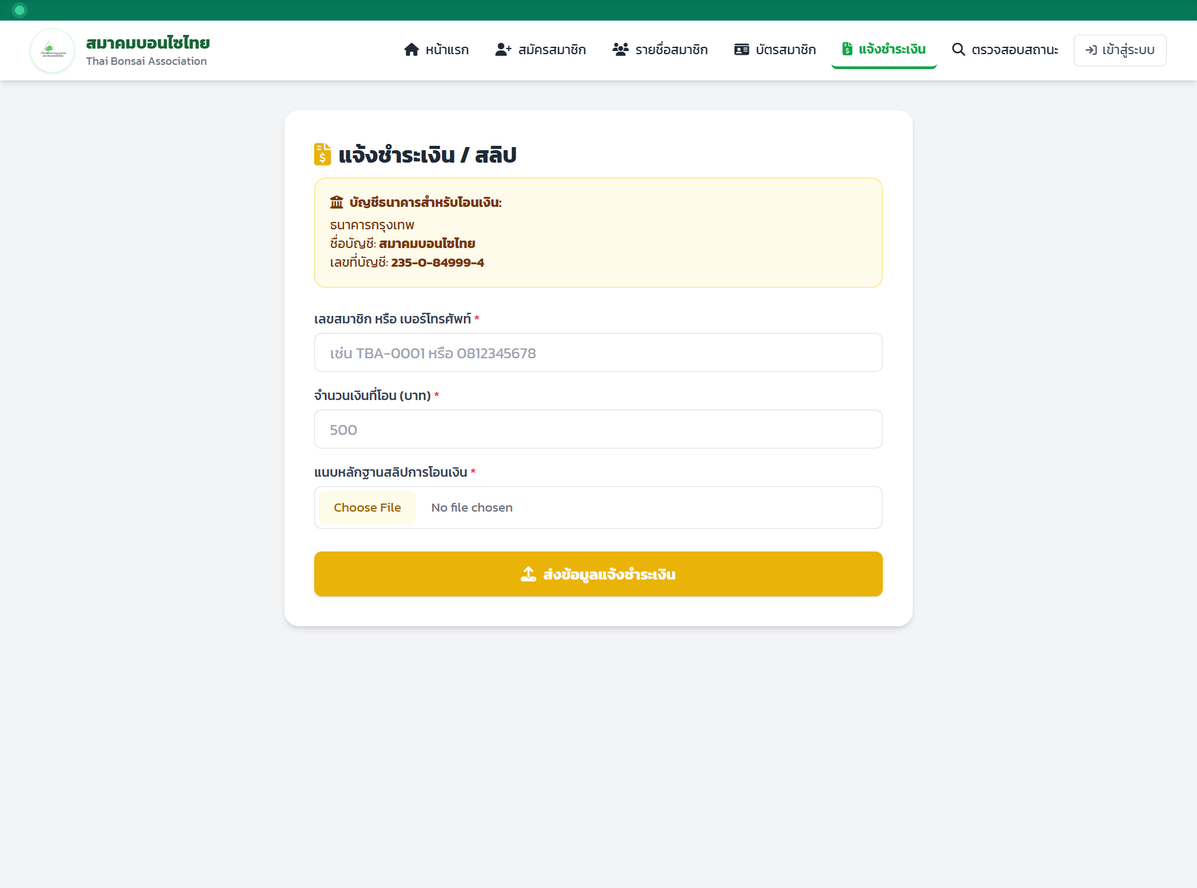
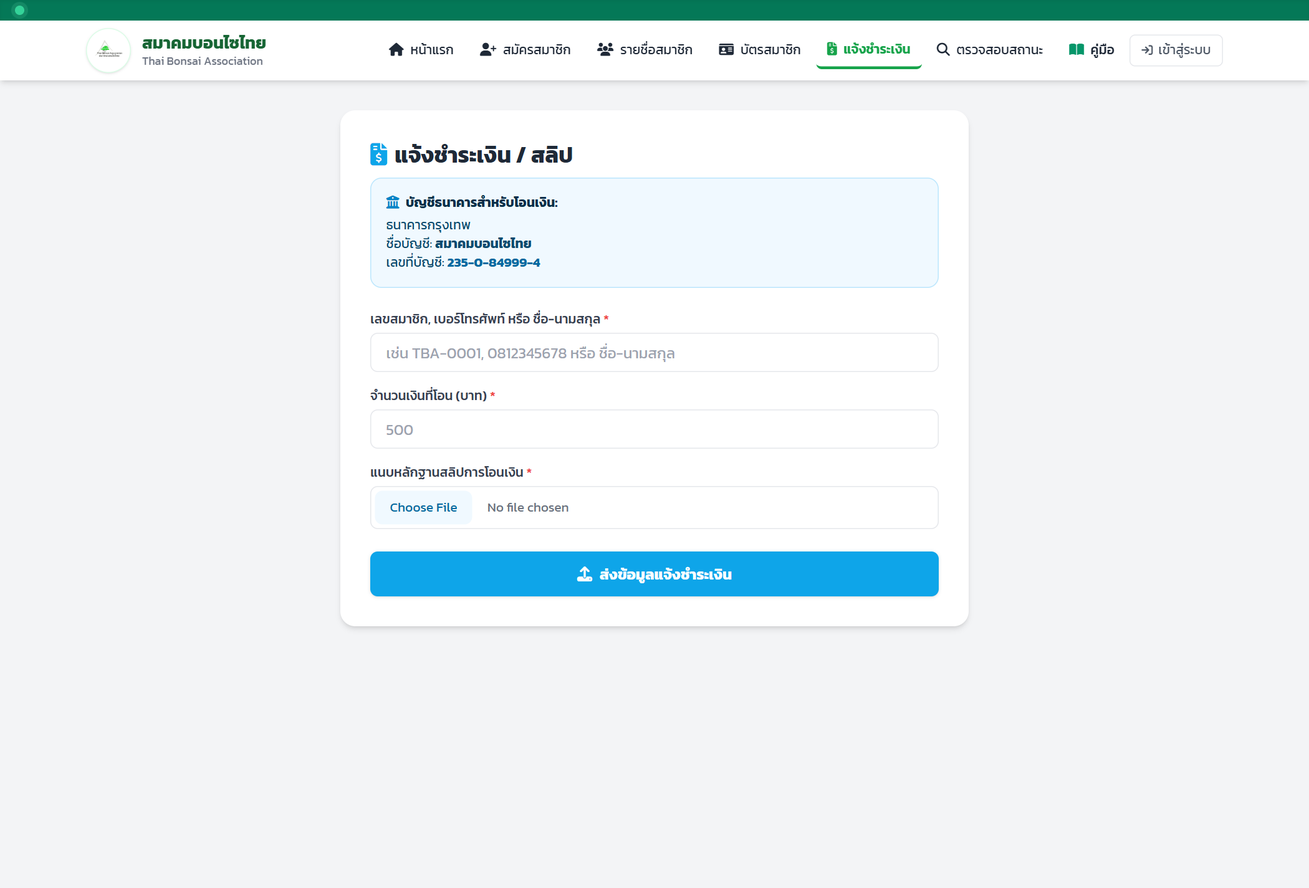
docs: update manual and website with latest UI changes, sky blue payment theme, expanded status view, and new admin screenshots

diff --git a/index.html b/index.html
@@ -1602,19 +1602,19 @@
                     </tr>
                     <tr class="hover:bg-gray-50">
                       <td class="py-2 px-3 font-semibold text-gray-500">แถว 1</td>
-                      <td class="py-2 px-3 font-bold text-amber-800">2. แจ้งชำระเงิน</td>
-                      <td class="py-2 px-3 text-amber-600 font-medium">ทองอำพันสว่าง</td>
-                      <td class="py-2 px-3">แนบหลักฐานสลิปโอนเงินค่าบำรุงสมาชิก</td>
+                      <td class="py-2 px-3 font-bold text-sky-800">2. แจ้งชำระเงิน</td>
+                      <td class="py-2 px-3 text-sky-600 font-medium">ฟ้าครามสดใส (Sky Blue)</td>
+                      <td class="py-2 px-3">แนบหลักฐานสลิปโอนเงิน ค้นหาด้วยชื่อ/เบอร์/รหัสสมาชิก</td>
                     </tr>
                     <tr class="hover:bg-gray-50">
                       <td class="py-2 px-3 font-semibold text-gray-500">แถว 1</td>
                       <td class="py-2 px-3 font-bold text-blue-800">3. ตรวจสอบสถานะ</td>
                       <td class="py-2 px-3 text-blue-600 font-medium">ฟ้าครามสดใส</td>
-                      <td class="py-2 px-3">ตรวจสอบสถานะการอนุมัติและวันหมดอายุบัตร</td>
+                      <td class="py-2 px-3">ตรวจสอบสถานะการอนุมัติและวันหมดอายุ ค้นหาจากชื่อได้ทันที</td>
                     </tr>
                     <tr class="hover:bg-gray-50">
                       <td class="py-2 px-3 font-semibold text-gray-500">แถว 2</td>
-                      <td class="py-2 px-3 font-bold text-purple-800">4. บัตรสมาชิก</td>
+                      <td class="py-2 px-3 font-bold text-purple-800">4. ดูบัตรสมาชิกทุกคน</td>
                       <td class="py-2 px-3 text-purple-600 font-medium">ม่วงไวโอเล็ต</td>
                       <td class="py-2 px-3">เปิดดูแกลเลอรีบัตรประจำตัวดิจิทัลของทุกคนในระบบ</td>
                     </tr>
@@ -1681,28 +1681,28 @@
             <!-- หมวดที่ 3: ระบบแจ้งชำระเงิน (Payment) -->
             <section id="manual-sec-3" class="pt-6 border-t border-gray-100 scroll-mt-20">
               <div class="flex items-center gap-2.5 pb-2 border-b border-gray-200 mb-4">
-                <span class="w-8 h-8 rounded-lg bg-emerald-100 text-emerald-800 font-bold flex items-center justify-center text-sm">3</span>
+                <span class="w-8 h-8 rounded-lg bg-sky-100 text-sky-800 font-bold flex items-center justify-center text-sm">3</span>
                 <h3 class="text-xl sm:text-2xl font-bold text-gray-900">ระบบแจ้งชำระเงิน (Payment Submission)</h3>
               </div>
               <p class="text-gray-600 mb-4">
-                ช่องทางสำหรับสมาชิกในการแนบสลิปหลักฐานการโอนเงินค่าบำรุงสมาชิกเข้าสู่ระบบ:
+                ปรับปรุงรูปลักษณ์ใหม่ด้วยโทนสีฟ้า (Sky Blue) สบายตา ช่องทางสำหรับสมาชิกในการแนบสลิปหลักฐานการโอนเงินค่าบำรุงสมาชิกเข้าสู่ระบบ:
               </p>
 
               <!-- ภาพประกอบหน้า 3 -->
               <div class="my-5 rounded-2xl overflow-hidden border border-gray-200 shadow-md">
-                <img src="manual_screenshots/03_payment.png" alt="หน้าแจ้งชำระเงิน สมาคมบอนไซไทย" class="w-full h-auto object-cover" />
+                <img src="manual_screenshots/03_payment.png" alt="หน้าแจ้งชำระเงิน สมาคมบอนไซไทย โทนสีฟ้า" class="w-full h-auto object-cover" />
                 <div class="bg-gray-50 px-4 py-2 text-xs text-gray-500 text-center font-medium border-t border-gray-200">
-                  รูปภาพที่ 3: หน้าค้นหาข้อมูลสมาชิกและแนบภาพถ่ายสลิปโอนเงิน
+                  รูปภาพที่ 3: หน้าแจ้งชำระเงินโทนสีฟ้า รองรับการระบุด้วยรหัสสมาชิก เบอร์โทรศัพท์ หรือชื่อ-นามสกุล
                 </div>
               </div>
 
               <div class="space-y-1.5 text-sm text-gray-700">
                 <p><strong>ขั้นตอนการใช้งาน:</strong></p>
                 <ul class="list-disc list-inside space-y-1 pl-2">
-                  <li>กรอกรหัสสมาชิก (เช่น TBA-0001) หรือเบอร์โทรศัพท์ที่ลงทะเบียนไว้ แล้วกด <strong>"ตรวจสอบข้อมูล"</strong></li>
-                  <li>ระบบจะดึงชื่อ-นามสกุลและสถานะปัจจุบันมาแสดง พร้อมเลขที่บัญชีธนาคารของสมาคมบอนไซไทย</li>
-                  <li>อัปโหลดไฟล์ภาพสลิปโอนเงิน (รองรับไฟล์รูปภาพทุกรูปแบบ)</li>
-                  <li>กดปุ่ม <strong>"ยืนยันการแจ้งชำระเงิน"</strong> ข้อมูลจะถูกส่งถึงเจ้าหน้าที่ทันที</li>
+                  <li>กรอก <strong>รหัสสมาชิก (เช่น TBA-0001)</strong>, <strong>เบอร์โทรศัพท์</strong> หรือ <strong>ชื่อ-นามสกุล</strong> ในช่องระบุตัวตน</li>
+                  <li>กรอกจำนวนเงินที่โอน และตรวจสอบเลขบัญชีธนาคารกรุงเทพของสมาคมบอนไซไทย (235-0-84999-4)</li>
+                  <li>อัปโหลดไฟล์ภาพสลิปหลักฐานการโอนเงิน</li>
+                  <li>กดปุ่ม <strong>"ส่งข้อมูลแจ้งชำระเงิน"</strong> ข้อมูลและไฟล์สลิปจะถูกส่งเข้า Google Drive ให้เจ้าหน้าที่ตรวจสอบทันที</li>
                 </ul>
               </div>
             </section>
@@ -1714,21 +1714,23 @@
                 <h3 class="text-xl sm:text-2xl font-bold text-gray-900">ระบบตรวจสอบสถานะสมาชิก (Status Tracking)</h3>
               </div>
               <p class="text-gray-600 mb-4">
-                ช่วยให้สมาชิกสามารถติดตามสถานะการสมัคร การอนุมัติ และวันหมดอายุของบัตรได้ด้วยตนเองตลอด 24 ชั่วโมง
+                ปรับปรุงหน้าจอขยายกว้างขวางเต็มตา (กว้างขึ้นระดับ max-w-4xl) ช่วยให้สมาชิกสามารถติดตามสถานะการสมัคร การอนุมัติ และวันหมดอายุของบัตรได้ด้วยตนเองตลอด 24 ชั่วโมง
               </p>
 
               <!-- ภาพประกอบหน้า 4 -->
               <div class="my-5 rounded-2xl overflow-hidden border border-gray-200 shadow-md">
                 <img src="manual_screenshots/04_status.png" alt="หน้าตรวจสอบสถานะสมาชิก" class="w-full h-auto object-cover" />
                 <div class="bg-gray-50 px-4 py-2 text-xs text-gray-500 text-center font-medium border-t border-gray-200">
-                  รูปภาพที่ 4: หน้าตรวจสอบสถานะสมาชิกผ่านเบอร์โทรศัพท์หรือรหัสสมาชิก
+                  รูปภาพที่ 4: หน้าตรวจสอบสถานะแบบกว้างขวาง ค้นหาด้วยชื่อ-นามสกุล เบอร์โทรศัพท์ หรือรหัสสมาชิก
                 </div>
               </div>
 
               <div class="space-y-1.5 text-sm text-gray-700">
-                <p><strong>ผลลัพธ์การตรวจสอบ:</strong></p>
+                <p><strong>การค้นหาและผลลัพธ์:</strong></p>
                 <ul class="list-disc list-inside space-y-1 pl-2">
-                  <li><span class="inline-block w-2.5 h-2.5 rounded-full bg-emerald-500 mr-1.5"></span><strong>สถานะอนุมัติแล้ว:</strong> สมาชิกสามารถคลิกเพื่อเปิดดูบัตรประจำตัวดิจิทัลได้ทันที</li>
+                  <li><strong>ค้นหาได้สะดวก:</strong> พิมพ์ค้นหาได้ทั้งชื่อ, นามสกุล, เบอร์โทรศัพท์ หรือรหัสสมาชิก</li>
+                  <li><strong>การ์ดแสดงผลข้อมูลสมบูรณ์:</strong> แสดงรูปถ่ายหน้าตรงที่ผ่านการครอบ AI, รหัสสมาชิก, ข้อมูลติดต่อ, วันหมดอายุ</li>
+                  <li><span class="inline-block w-2.5 h-2.5 rounded-full bg-emerald-500 mr-1.5"></span><strong>สถานะใช้งานอยู่:</strong> มีปุ่มลัด <strong>"ดูบัตรประจำตัว"</strong> คลิกเปิดบัตรดิจิทัลฉบับเต็มได้ทันที</li>
                   <li><span class="inline-block w-2.5 h-2.5 rounded-full bg-amber-500 mr-1.5"></span><strong>สถานะรอตรวจสอบชำระเงิน:</strong> มีปุ่มคลิกข้ามไปหน้าแจ้งชำระเงินได้สะดวกรวดเร็ว</li>
                 </ul>
               </div>
@@ -1793,24 +1795,34 @@
             <!-- หมวดที่ 7: ระบบฐานข้อมูลและเมนูเจ้าหน้าที่ (Admin & Database Portal) -->
             <section id="manual-sec-7" class="pt-6 border-t border-gray-100 scroll-mt-20">
               <div class="flex items-center gap-2.5 pb-2 border-b border-gray-200 mb-4">
-                <span class="w-8 h-8 rounded-lg bg-emerald-100 text-emerald-800 font-bold flex items-center justify-center text-sm">7</span>
+                <span class="w-8 h-8 rounded-lg bg-emerald-900 text-emerald-100 font-bold flex items-center justify-center text-sm">7</span>
                 <h3 class="text-xl sm:text-2xl font-bold text-gray-900">ระบบฐานข้อมูลและเมนูเจ้าหน้าที่ (Admin & Database Portal)</h3>
               </div>
               <p class="text-gray-600 mb-4">
-                ศูนย์กลางการจัดการข้อมูลสมาชิกทั้งหมดสำหรับคณะกรรมการและเจ้าหน้าที่สมาคมบอนไซไทย:
+                ศูนย์กลางการจัดการข้อมูลสมาชิกทั้งหมดสำหรับคณะกรรมการและเจ้าหน้าที่สมาคมบอนไซไทย ปรับโฉมโทนสีเขียวเข้มสง่างาม (Emerald Forest) พร้อมหัวตารางสีเขียวอ่อนอ่านง่าย:
               </p>
 
-              <!-- ภาพประกอบหน้า 7 -->
+              <!-- ภาพประกอบหน้า 7 - ตารางสมาชิก -->
               <div class="my-5 rounded-2xl overflow-hidden border border-gray-200 shadow-md">
-                <img src="manual_screenshots/07_members.png" alt="หน้าตารางรายชื่อสมาชิกสำหรับเจ้าหน้าที่" class="w-full h-auto object-cover" />
+                <img src="manual_screenshots/07_members.png" alt="หน้าตารางรายชื่อสมาชิกสำหรับเจ้าหน้าที่ พร้อมแถบค้นหา" class="w-full h-auto object-cover" />
                 <div class="bg-gray-50 px-4 py-2 text-xs text-gray-500 text-center font-medium border-t border-gray-200">
-                  รูปภาพที่ 7: ตารางบริหารจัดการข้อมูลสมาชิก ค้นหา อนุมัติ และตรวจสอบสลิป
+                  รูปภาพที่ 7: หน้าทำเนียบสมาชิกพร้อมแถบค้นหาข้อมูลอัจฉริยะแบบเรียลไทม์
+                </div>
+              </div>
+
+              <!-- ภาพประกอบหน้า 7 - แดชบอร์ดแอดมินโทนเขียวเข้ม -->
+              <div class="my-5 rounded-2xl overflow-hidden border border-gray-200 shadow-md">
+                <img src="manual_screenshots/08_admin.png" alt="หน้าแดชบอร์ดจัดการระบบของแอดมิน โทนสีเขียวเข้มและหัวตารางสีเขียวอ่อน" class="w-full h-auto object-cover" />
+                <div class="bg-gray-50 px-4 py-2 text-xs text-gray-500 text-center font-medium border-t border-gray-200">
+                  รูปภาพที่ 8: หน้าแดชบอร์ดแอดมินโทนสีเขียวเข้ม (Emerald-900) พร้อมแถบค้นหาและหัวตารางสีเขียวอ่อนสบายตา
                 </div>
               </div>
 
               <div class="space-y-1.5 text-sm text-gray-700">
                 <p><strong>สิทธิ์และความสามารถของเจ้าหน้าที่:</strong></p>
                 <ul class="list-disc list-inside space-y-1 pl-2">
+                  <li><strong>แถบค้นหาอัจฉริยะ:</strong> ค้นหาตามชื่อ-นามสกุล, รหัสสมาชิก หรือเบอร์โทรศัพท์ได้อย่างรวดเร็ว</li>
+                  <li><strong>โทนสีและหัวตารางสบายตา:</strong> หัวตารางสีเขียวอ่อนอ่านง่าย สบายตาในการตรวจสอบข้อมูลสมาชิกจำนวนมาก</li>
                   <li><strong>อนุมัติสมาชิก:</strong> คลิกเปลี่ยนสถานะสมาชิกจาก "รออนุมัติ" เป็น "ใช้งานอยู่" ได้ทันที</li>
                   <li><strong>ตรวจสอบสลิปโอนเงิน:</strong> คลิกดูรูปถ่ายสลิปที่เก็บไว้อย่างปลอดภัยบน Google Drive</li>
                   <li><strong>ส่งออกข้อมูล (Export CSV):</strong> ดาวน์โหลดไฟล์รายชื่อสมาชิกไปใช้งานต่อใน Excel ได้</li>

diff --git a/MANUAL.md b/MANUAL.md
@@ -23,16 +23,17 @@
 หน้าแรกของระบบได้รับการออกแบบอย่างสง่างาม แบ่งพื้นที่ออกเป็นสัดส่วน 2:1 ที่ลงตัว:
 - **ฝั่งซ้าย (2 ใน 3 ส่วน)**: แถบต้อนรับทางการ คำแนะนำการใช้งาน และ **ปุ่มเมนูด่วน 5 รายการ (จัดเรียง 2 แถว)** โทนสีสดใสสะดุดตาพร้อมลายเส้นไม้ธรรมชาติของการ์ดสมาชิก
 - **ฝั่งขวา (1 ใน 3 ส่วน)**: ตราสัญลักษณ์โลโก้สมาคมบอนไซไทยทรงกลมแบบ **3 มิติ (3D Beveled Medallion)** พร้อมภาพบุคคลและต้นบอนไซที่วางชิดขอบล่างสุดอย่างภูมิฐาน
+- **แถบเมนูด้านบน (Navbar)**: มีปุ่มลัด **"คู่มือ"** พร้อมไอคอนหนังสือสีเขียวมรกต เพื่อเปิดคู่มือฉบับเต็มและดาวน์โหลด PDF ได้ทันที
 
-![หน้าหลัก ระบบทะเบียนสมาชิก สมาคมบอนไซไทย](C:/Users/AA-IP-NW/.gemini/antigravity-ide/brain/6e579d8a-110e-4319-a297-9fd0524705d2/manual_screenshots/01_home.png)
+![หน้าหลัก ระบบทะเบียนสมาชิก สมาคมบอนไซไทย](manual_screenshots/01_home.png)
 
 ### รายละเอียดปุ่มเมนูด่วน 5 รายการ:
 | แถว | รายการ | โทนสี | หน้าที่การทำงาน |
 | :--- | :--- | :--- | :--- |
 | **แถวที่ 1** | **สมัครสมาชิกใหม่** | เขียวมรกต (`Emerald`) | เปิดฟอร์มลงทะเบียนสมาชิกใหม่ พร้อมระบบตรวจจับใบหน้า AI |
-| | **แจ้งชำระเงิน** | ทองอำพัน (`Amber Gold`) | แนบหลักฐานสลิปโอนเงินค่าบำรุงสมาชิก |
-| | **ตรวจสอบสถานะ** | ฟ้าคราม (`Sky Azure`) | ตรวจสอบผลการอนุมัติและวันหมดอายุของบัตร |
-| **แถวที่ 2** | **บัตรสมาชิก** | ม่วงไวโอเล็ต (`Royal Violet`) | เปิดแกลเลอรีดูบัตรประจำตัวดิจิทัลของทุกคนในระบบ |
+| | **แจ้งชำระเงิน** | ฟ้าครามสดใส (`Sky Blue`) | แนบหลักฐานสลิปโอนเงินค่าบำรุงสมาชิก พร้อมค้นหาด้วยชื่อ/เบอร์/รหัส |
+| | **ตรวจสอบสถานะ** | ฟ้าคราม (`Sky Azure`) | ตรวจสอบผลการอนุมัติและวันหมดอายุของบัตร ค้นหาจากชื่อได้ทันที |
+| **แถวที่ 2** | **ดูบัตรสมาชิกทุกคน** | ม่วงไวโอเล็ต (`Royal Violet`) | เปิดแกลเลอรีดูบัตรประจำตัวดิจิทัลของทุกคนในระบบ |
 | | **สมาชิกทั้งหมด** | แดงทับทิม (`Ruby Rose`) | แสดงยอดรวมสมาชิกแบบเรียลไทม์ และคลิกเพื่อเปิดทำเนียบสมาชิก |
 
 ---
@@ -41,7 +42,7 @@
 
 แบบฟอร์มลงทะเบียนออนไลน์เพื่อจัดทำทะเบียนและออกบัตรสมาชิกประจำตัวดิจิทัล
 
-![หน้าสมัครสมาชิกใหม่ พร้อมระบบครอบใบหน้า AI และ PDPA](C:/Users/AA-IP-NW/.gemini/antigravity-ide/brain/6e579d8a-110e-4319-a297-9fd0524705d2/manual_screenshots/02_register.png)
+![หน้าสมัครสมาชิกใหม่ พร้อมระบบครอบใบหน้า AI และ PDPA](manual_screenshots/02_register.png)
 
 ### ขั้นตอนการสมัครสมาชิก:
 1. **กรอกข้อมูลส่วนบุคคล**:
@@ -65,32 +66,41 @@
 
 ## 3. ระบบแจ้งชำระเงิน (Payment Submission)
 
-สำหรับสมาชิกที่ต้องการส่งหลักฐานการโอนเงินค่าสมัครหรือต่ออายุสมาชิกสมาคม
+ปรับโฉมใหม่ด้วยโทนสีฟ้า (`Sky Blue`) สบายตา สำหรับสมาชิกที่ต้องการส่งหลักฐานการโอนเงินค่าสมัครหรือต่ออายุสมาชิกสมาคม
 
-![หน้าแจ้งชำระเงิน](C:/Users/AA-IP-NW/.gemini/antigravity-ide/brain/6e579d8a-110e-4319-a297-9fd0524705d2/manual_screenshots/03_payment.png)
+![หน้าแจ้งชำระเงิน โทนสีฟ้า](manual_screenshots/03_payment.png)
 
 ### ขั้นตอนการแจ้งชำระเงิน:
-1. กรอก **รหัสสมาชิก (เช่น TBA-0001)** หรือ **เบอร์โทรศัพท์** ที่ใช้สมัคร
-2. กดปุ่ม **"ตรวจสอบข้อมูล"** เพื่อดึงชื่อสมาชิกและสถานะปัจจุบัน
-3. ดูข้อมูลเลขบัญชีธนาคารของสมาคมบอนไซไทยที่ปรากฏ
-4. อัปโหลดภาพถ่าย **สลิปหลักฐานการโอนเงิน**
-5. กดปุ่ม **"ยืนยันการแจ้งชำระเงิน"** เจ้าหน้าที่จะได้รับสลิปผ่าน Google Drive ทันที
+1. กรอกข้อมูลระบุตัวตนในช่องแรก ซึ่งรองรับได้ทั้ง:
+   - **รหัสสมาชิก** (เช่น `TBA-0001`)
+   - **เบอร์โทรศัพท์** (10 หลัก)
+   - **ชื่อ หรือ นามสกุล** ของผู้สมัคร
+2. กรอก **จำนวนเงินที่โอน (บาท)**
+3. ตรวจสอบเลขบัญชีธนาคารกรุงเทพของสมาคมบอนไซไทย (`235-0-84999-4`)
+4. แนบไฟล์ภาพ **สลิปหลักฐานการโอนเงิน**
+5. กดปุ่ม **"ส่งข้อมูลแจ้งชำระเงิน"** เจ้าหน้าที่จะได้รับสลิปผ่าน Google Drive ทันที
 
 ---
 
 ## 4. ระบบตรวจสอบสถานะสมาชิก (Status Tracking)
 
-ช่วยให้สมาชิกสามารถติดตามความคืบหน้าของการสมัครและการอนุมัติบัตรได้ตลอด 24 ชั่วโมง
+หน้าตรวจสอบสถานะสมาชิกได้รับการอัปเกรดขยายขนาดให้กว้างขวาง สบายตา (`max-w-4xl`) พร้อมรองรับการค้นหาที่สะดวกรวดเร็ว
 
-![หน้าตรวจสอบสถานะสมาชิก](C:/Users/AA-IP-NW/.gemini/antigravity-ide/brain/6e579d8a-110e-4319-a297-9fd0524705d2/manual_screenshots/04_status.png)
+![หน้าตรวจสอบสถานะสมาชิก ขยายหน้าจอและค้นหาด้วยชื่อ](manual_screenshots/04_status.png)
 
 ### วิธีการตรวจสอบ:
-1. ป้อนหมายเลขโทรศัพท์ 10 หลัก หรือรหัสสมาชิก
+1. ป้อนข้อมูลในช่องค้นหา:
+   - **ชื่อ หรือ นามสกุล** (เช่น "แก้วตา", "สมชาย")
+   - **หมายเลขโทรศัพท์** 10 หลัก
+   - **รหัสสมาชิก** (เช่น TBA-0001)
 2. กดปุ่ม **"ค้นหาข้อมูล"**
-3. ระบบจะแสดงสถานะ:
-   - 🟢 **ใช้งานอยู่ / อนุมัติแล้ว**: สมาชิกสามารถคลิกเพื่อเปิดดูบัตรดิจิทัลได้ทันที
-   - 🟡 **รอตรวจสอบชำระเงิน**: สมาชิกสามารถคลิกเพื่อไปหน้าแจ้งชำระเงินได้ทันที
-   - 🔴 **หมดอายุ**: มีปุ่มสำหรับแจ้งต่ออายุสมาชิก
+3. ระบบจะแสดงการ์ดผลลัพธ์ข้อมูลสมาชิกอย่างชัดเจน:
+   - รูปถ่ายหน้าตรงของสมาชิก
+   - รหัสสมาชิก และชื่อ-นามสกุล
+   - หมายเลขโทรศัพท์ และจังหวัด
+   - วันที่สมัคร และวันหมดอายุบัตร
+   - ป้ายสถานะสีสันชัดเจน: 🟢 **ใช้งานอยู่** / 🟡 **รออนุมัติ / รอตรวจสอบชำระเงิน** / 🔴 **หมดอายุ**
+   - ปุ่มลัด **"ดูบัตรประจำตัว"** เพื่อคลิกเปิดการ์ดดิจิทัลฉบับเต็มได้ทันที
 
 ---
 
@@ -98,10 +108,10 @@
 
 หน้ารวมบัตรสมาชิกดิจิทัลของทุกคนในสมาคมบอนไซไทย ออกแบบในรูปแบบ Card Showcase เสมือนจริง
 
-![คลังบัตรสมาชิกดิจิทัลทั้งหมด](C:/Users/AA-IP-NW/.gemini/antigravity-ide/brain/6e579d8a-110e-4319-a297-9fd0524705d2/manual_screenshots/05_all_cards.png)
+![คลังบัตรสมาชิกดิจิทัลทั้งหมด](manual_screenshots/05_all_cards.png)
 
 ### ฟังก์ชันเด่น:
-- **ช่องค้นหาอัจฉริยะ (Real-time Filter)**: ค้นหาได้ทั้งชื่อ-นามสกุล, รหัสสมาชิก, จังหวัด หรือเบอร์โทรศัพท์
+- **ช่องค้นหาอัจฉริยะ (Real-time Filter)**: ค้นหาได้ทั้งชื่อ-นามสกุล, รหัสสมาชิก, จังหวัด หรือเบอร์โทรศัพท์ ข้อมูลจะกรองผลทันทีขณะพิมพ์
 - **แสดงยอดบัตรทั้งหมด**: มีตัวเลขนับจำนวนบัตรสมาชิกที่ตรงตามเงื่อนไข
 - **ดีไซน์การ์ดระดับพรีเมียม**:
   - หัวการ์ดลายเส้นไม้สีเขียวมรกต (`card-header-bg.png`)
@@ -115,7 +125,7 @@
 
 หน้าแสดงบัตรสมาชิกประจำตัวดิจิทัลฉบับสมบูรณ์ พร้อมระบบออก QR Code และบันทึกภาพลงเครื่อง
 
-![หน้ารายละเอียดและดาวน์โหลดบัตรสมาชิก](C:/Users/AA-IP-NW/.gemini/antigravity-ide/brain/6e579d8a-110e-4319-a297-9fd0524705d2/manual_screenshots/06_member_detail.png)
+![หน้ารายละเอียดและดาวน์โหลดบัตรสมาชิก](manual_screenshots/06_member_detail.png)
 
 ### คุณสมบัติของบัตรสมาชิกดิจิทัล:
 - **QR Code ประจำตัว**: ใช้สำหรับสแกนเพื่อตรวจสอบความถูกต้องของสมาชิก ณ จุดลงทะเบียนงานกิจกรรม
@@ -130,16 +140,20 @@
 
 ## 7. ระบบฐานข้อมูลและเมนูเจ้าหน้าที่ (Admin & Database Portal)
 
-ตารางบริหารจัดการข้อมูลสมาชิกทั้งหมดสำหรับคณะกรรมการและเจ้าหน้าที่สมาคม
+ตารางบริหารจัดการข้อมูลสมาชิกทั้งหมดสำหรับคณะกรรมการและเจ้าหน้าที่สมาคม ได้รับการปรับแต่งโทนสีใหม่เป็น **สีเขียวเข้มสง่างาม (Emerald Forest)** และปรับหัวตารางให้สว่างอ่อนตา เพื่อให้อ่านข้อมูลง่ายและสบายตาในการทำงาน
 
-![หน้าตารางรายชื่อสมาชิกสำหรับเจ้าหน้าที่](C:/Users/AA-IP-NW/.gemini/antigravity-ide/brain/6e579d8a-110e-4319-a297-9fd0524705d2/manual_screenshots/07_members.png)
+![หน้าตารางรายชื่อสมาชิกสำหรับเจ้าหน้าที่ พร้อมแถบค้นหา](manual_screenshots/07_members.png)
+
+![หน้าแดชบอร์ดจัดการระบบของแอดมิน โทนสีเขียวเข้มและหัวตารางสีเขียวอ่อน](manual_screenshots/08_admin.png)
 
 ### ความสามารถของผู้ดูแลระบบ:
-1. **ค้นหาและจัดเรียงข้อมูล**: ค้นหาตามชื่อ รหัส เบอร์โทร และกรองตามสถานะ (รออนุมัติ / ใช้งานอยู่)
-2. **อนุมัติสมาชิก**: กดเปลี่ยนสถานะสมาชิกจากรออนุมัติเป็น "ใช้งานอยู่" ได้ในคลิกเดียว
-3. **ตรวจสอบสลิปโอนเงิน**: คลิกดูภาพสลิปที่ส่งเข้ามาจาก Google Drive
-4. **ส่งออกข้อมูล (Export)**: ดาวน์โหลดรายชื่อสมาชิกในรูปแบบไฟล์ CSV / Excel
-5. **ความปลอดภัย**: มีระบบเข้าสู่ระบบสำหรับเจ้าหน้าที่เพื่อป้องกันการแก้ไขข้อมูลโดยไม่ได้รับอนุญาต
+1. **แถบค้นหาอัจฉริยะแบบเรียลไทม์**: ค้นหาตามชื่อ-นามสกุล, รหัสสมาชิก, เบอร์โทรศัพท์ และกรองตามสถานะได้ทันที
+2. **แดชบอร์ดแอดมินโทนเขียวเข้ม (`Emerald-900`)**: ดูภาพรวม สถิติสมาชิก และการจัดการข้อมูลที่เป็นสัดส่วน
+3. **หัวตารางสีเขียวอ่อนสบายตา (`Emerald-50`)**: ตัวหนังสือคมชัด แยกบรรทัดชัดเจน อ่านข้อมูลได้ง่ายไม่ล้าสายตา
+4. **อนุมัติสมาชิก**: กดเปลี่ยนสถานะสมาชิกจากรออนุมัติเป็น "ใช้งานอยู่" ได้ในคลิกเดียว
+5. **ตรวจสอบสลิปโอนเงิน**: คลิกดูภาพสลิปที่ส่งเข้ามาจาก Google Drive
+6. **ส่งออกข้อมูล (Export)**: ดาวน์โหลดรายชื่อสมาชิกในรูปแบบไฟล์ CSV / Excel
+7. **ความปลอดภัย**: มีระบบเข้าสู่ระบบด้วยรหัสผ่านสำหรับเจ้าหน้าที่ เพื่อป้องกันการแก้ไขข้อมูลโดยไม่ได้รับอนุญาต
 
 ---
 
